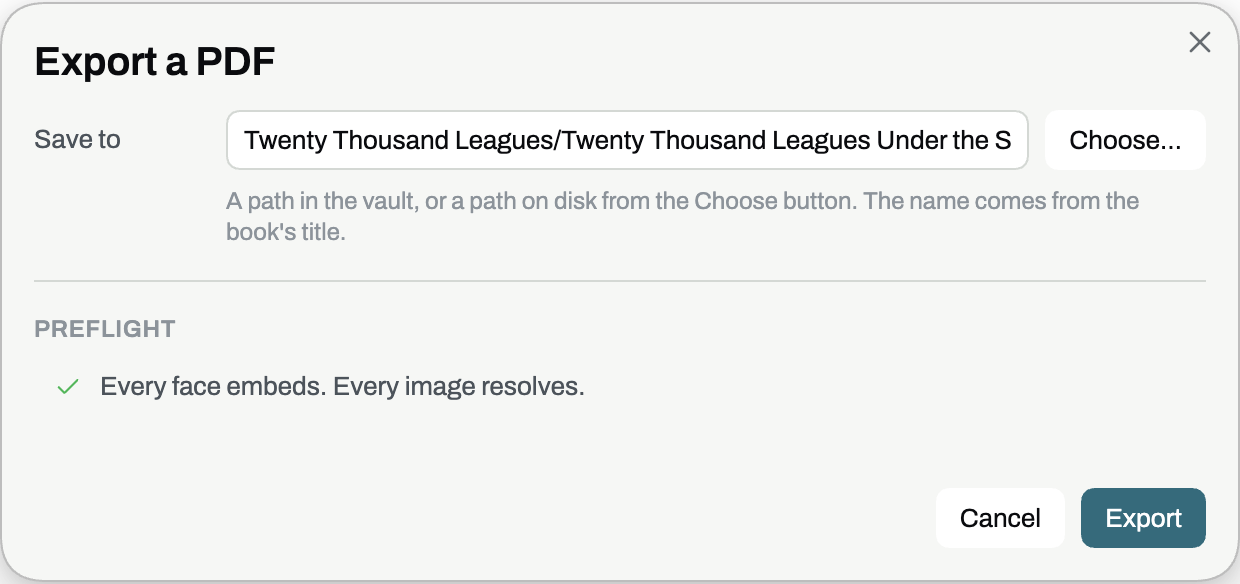
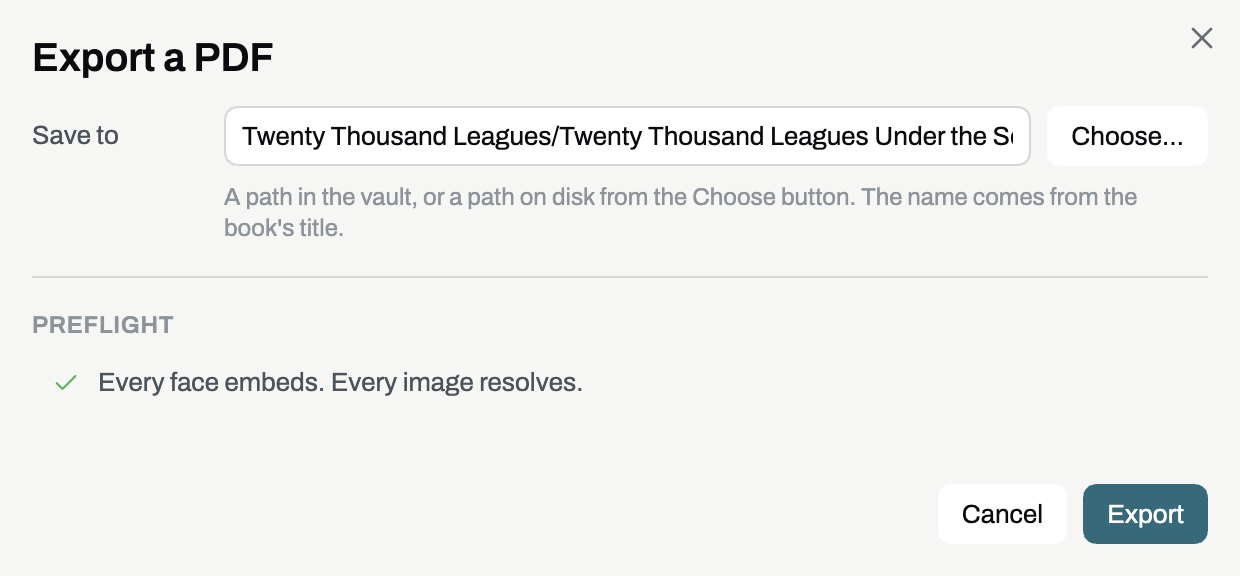
Crop the export shot tight to a squared dialog, and let the page draw its frame
Claude-Session: https://claude.ai/code/session_011HYbE9mvgkiHA3ScNdgzJ3

diff --git a/e2e/harness/obsidian.ts b/e2e/harness/obsidian.ts
@@ -452,17 +452,30 @@ export class Obsidian {
   }
 
   /**
-   * Hides everything but the open modal and paints nothing behind it,
-   * for a picture of a dialog alone. The modal's rounded corners come
-   * out transparent rather than showing the window under them.
+   * Holds the pointer still, squares the open modal (no rounded corners,
+   * no border, no shadow) and hands back a crop to it. The crop is rounded
+   * inward to whole pixels, because a modal centred in the window can sit
+   * on a half pixel, and a crop rounded outward takes a row of the window
+   * behind it. The page the picture is shown on draws the frame.
    */
-  async alone(): Promise<void> {
+  async unframed(
+    modal: Locator,
+  ): Promise<{ x: number; y: number; width: number; height: number }> {
     await this.page.mouse.move(0, 0);
     await this.hold(
-      "body * { visibility: hidden !important }" +
-        `${CHROME.modal}, ${CHROME.modal} * { visibility: visible !important }` +
-        "html, body { background: transparent !important }",
+      `${HOVERED} { visibility: hidden }` +
+        `${CHROME.modal} { border-radius: 0 !important; border: 0 !important; box-shadow: none !important }`,
     );
+    const box = await modal.boundingBox();
+    if (box === null) throw new Error("the modal has no box to crop to");
+    const x = Math.ceil(box.x);
+    const y = Math.ceil(box.y);
+    return {
+      x,
+      y,
+      width: Math.floor(box.x + box.width) - x,
+      height: Math.floor(box.y + box.height) - y,
+    };
   }
 
   private async hold(css: string): Promise<void> {

diff --git a/e2e/shots.spec.ts b/e2e/shots.spec.ts
@@ -371,14 +371,11 @@ test("the export picture is the dialog on the sample book, with the preflight pa
     await settled(site.book);
     await exporting.open();
     await exporting.reaches("ready");
-    await site.obsidian.alone();
-    await expect(exporting.dialog).toHaveScreenshot(`export-${scheme}.png`, {
-      omitBackground: true,
-    });
+    // The dialog is cropped tight with its corners squared, like the other
+    // pictures of a pane, and the page draws the frame.
+    const clip = await site.obsidian.unframed(exporting.dialog);
+    await expect(site.obsidian.page).toHaveScreenshot(`export-${scheme}.png`, { clip });
     await exporting.close();
-    // The book is hidden while the dialog is photographed, and the next
-    // scheme waits on its pages being visible.
-    await site.obsidian.moving();
   }
 
   await site.obsidian.moving();
